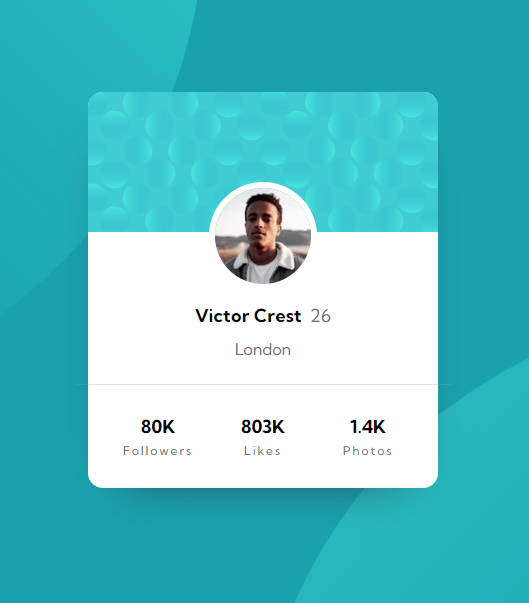
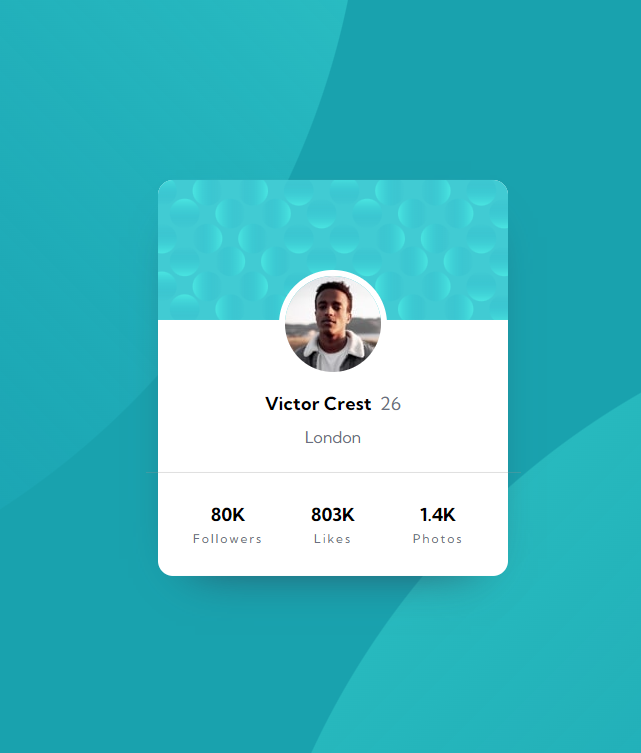
adjusted bg

Changed region(s): [[0.1512, 0.1493, 0.8771, 0.8955], [0.4839, 0.0, 0.5444, 0.0299]]

diff --git a/style.css b/style.css
@@ -4,16 +4,12 @@ body {
   font-size: 18px;
   background-color: #19a2ae;
   overflow: hidden;
-}
-
-.top-bubble {
-  position: absolute;
-  transform: translate(-25%, -50%);
-}
-
-.btm-bubble {
-  position: absolute;
-  transform: translate(80%, 40%);
+  background-image: url("./images/bg-pattern-top.svg"), url("./images/bg-pattern-bottom.svg");
+  background-repeat: no-repeat;
+  background-size: cover;
+  background-position: left -48vw top -126vh, left 44vw top 38vh;
+  min-height: 100vh;
+  min-width: 100vw;
 }
 
 main {
@@ -78,14 +74,8 @@ main .info .stat .unit {
 }
 
 @media screen and (max-width: 375px) {
-  .top-bubble {
-    position: absolute;
-    transform: translate(-77%, -65%);
-  }
-
-  .btm-bubble {
-    position: absolute;
-    transform: translate(15%, 30%);
+  body {
+    background-position: right 54vw bottom 58vh, left 42vw top 110vw;
   }
 }
 

diff --git a/style.scss b/style.scss
@@ -13,16 +13,15 @@ body {
 	font-size: 18px;
 	background-color: $darkCyan;
 	overflow: hidden;
+
+	background-image: url("./images/bg-pattern-top.svg"), url("./images/bg-pattern-bottom.svg");
+	background-repeat: no-repeat;
+	background-size: cover;
+	background-position: left -48vw top -126vh, left 44vw top 38vh;
+	min-height: 100vh;
+	min-width: 100vw;
 }
 
-.top-bubble {
-	position: absolute;
-	transform: translate(-25%, -50%);
-}
-.btm-bubble {
-	position: absolute;
-	transform: translate(80%, 40%);
-}
 
 main {
 	position: absolute;
@@ -95,12 +94,7 @@ main {
 }
 
 @media screen and (max-width: 375px) {
-	.top-bubble {
-		position: absolute;
-		transform: translate(-77%, -65%);
-	}
-	.btm-bubble {
-		position: absolute;
-		transform: translate(15%, 30%);
+	body {
+		background-position: right 54vw bottom 58vh, left 42vw top 110vw;
 	}
 }

diff --git a/index.html b/index.html
@@ -11,8 +11,6 @@
 
 </head>
 <body>
-  <img src="./images/bg-pattern-top.svg" alt="" class="top-bubble"/>
-  <img src="./images/bg-pattern-bottom.svg" alt="" class="btm-bubble"/>
   <main>
     <img src="./images/bg-pattern-card.svg" alt="Profile banner" class="banner"/>
     <img src="./images/image-victor.jpg" alt="Victor Crest" class="victor"/>
